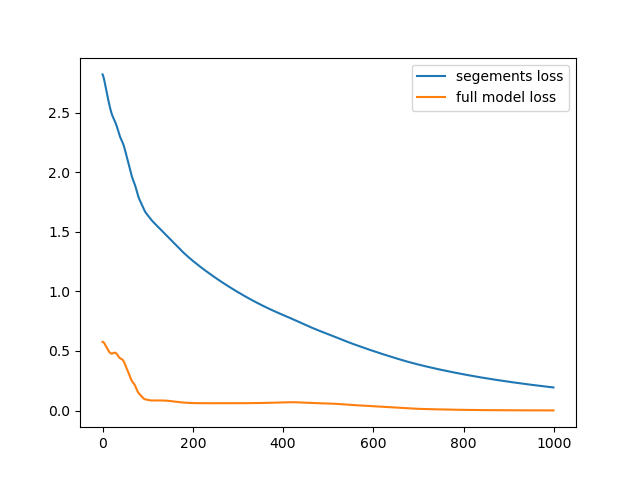
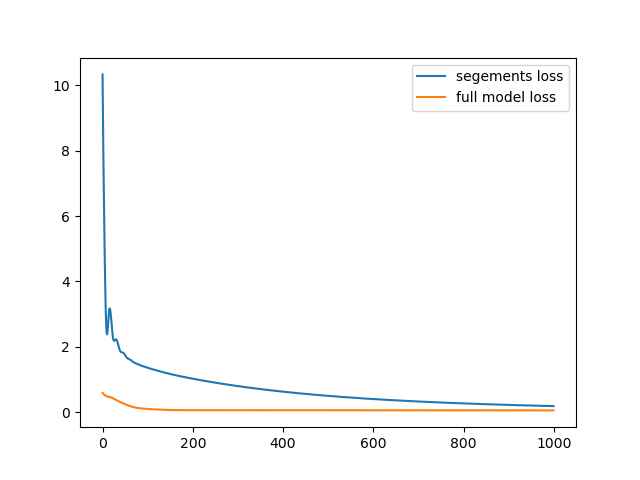
reduced middle state

diff --git a/multi_train.py b/multi_train.py
@@ -14,13 +14,13 @@ def unit_nn(input_shape, output_shape, units, layers_per_segment):
 
 def multi_shot(x, y, layers_per_segment, units, epochs, learning_rate):
     # Randomly initialize trainable middle states
-    middle_state0 = tf.Variable(tf.random.normal([x.shape[0], units], dtype=tf.float32), trainable=True)
-    middle_state1 = tf.Variable(tf.random.normal([x.shape[0], units], dtype=tf.float32), trainable=True)
+    middle_state0 = tf.Variable(tf.random.normal([x.shape[0], 1], dtype=tf.float32), trainable=True)
+    middle_state1 = tf.Variable(tf.random.normal([x.shape[0], 1], dtype=tf.float32), trainable=True)
 
     # Instantiate each segment
-    segment1 = unit_nn(x.shape[1:], middle_state0.shape[1], units=units, layers_per_segment=layers_per_segment) # shape x = (1, ), y = 16
-    segment2 = unit_nn(middle_state0.shape[1:], middle_state1.shape[1], units=units, layers_per_segment=layers_per_segment) # shape x = (16, ), y = 16
-    segment3 = unit_nn(middle_state1.shape[1:], y.shape[1], units=units, layers_per_segment=layers_per_segment) # shape x = (16, ), y = 1
+    segment1 = unit_nn(x.shape[1:], 16, units=units, layers_per_segment=layers_per_segment) # shape x = (1, ), y = 16
+    segment2 = unit_nn(16, 16, units=units, layers_per_segment=layers_per_segment) # shape x = (16, ), y = 16
+    segment3 = unit_nn(16, y.shape[1], units=units, layers_per_segment=layers_per_segment) # shape x = (16, ), y = 1
 
     # Combine segments into a single unified model
     input_layer = tf.keras.layers.Input(shape=x.shape[1:])
@@ -38,14 +38,14 @@ def multi_shot(x, y, layers_per_segment, units, epochs, learning_rate):
         # Train segment 1
         with tf.GradientTape() as tape1:
             intermediate1_output = segment1(x, training=True)
-            loss1 = mse_loss(intermediate1_output, middle_state0)
+            loss1 = mse_loss(tf.reduce_sum(intermediate1_output, axis= -1), middle_state0)
         gradients1 = tape1.gradient(loss1, segment1.trainable_variables + [middle_state0])
         optimizer.apply_gradients(zip(gradients1, segment1.trainable_variables + [middle_state0]))
 
         # Train segment 2
         with tf.GradientTape() as tape2:
             intermediate2_output = segment2(intermediate1_output, training=True)
-            loss2 = mse_loss(intermediate2_output, middle_state1)
+            loss2 = mse_loss(tf.reduce_sum(intermediate2_output, axis= -1), middle_state1)
         gradients2 = tape2.gradient(loss2, segment2.trainable_variables + [middle_state1])
         optimizer.apply_gradients(zip(gradients2, segment2.trainable_variables + [middle_state1]))
 
